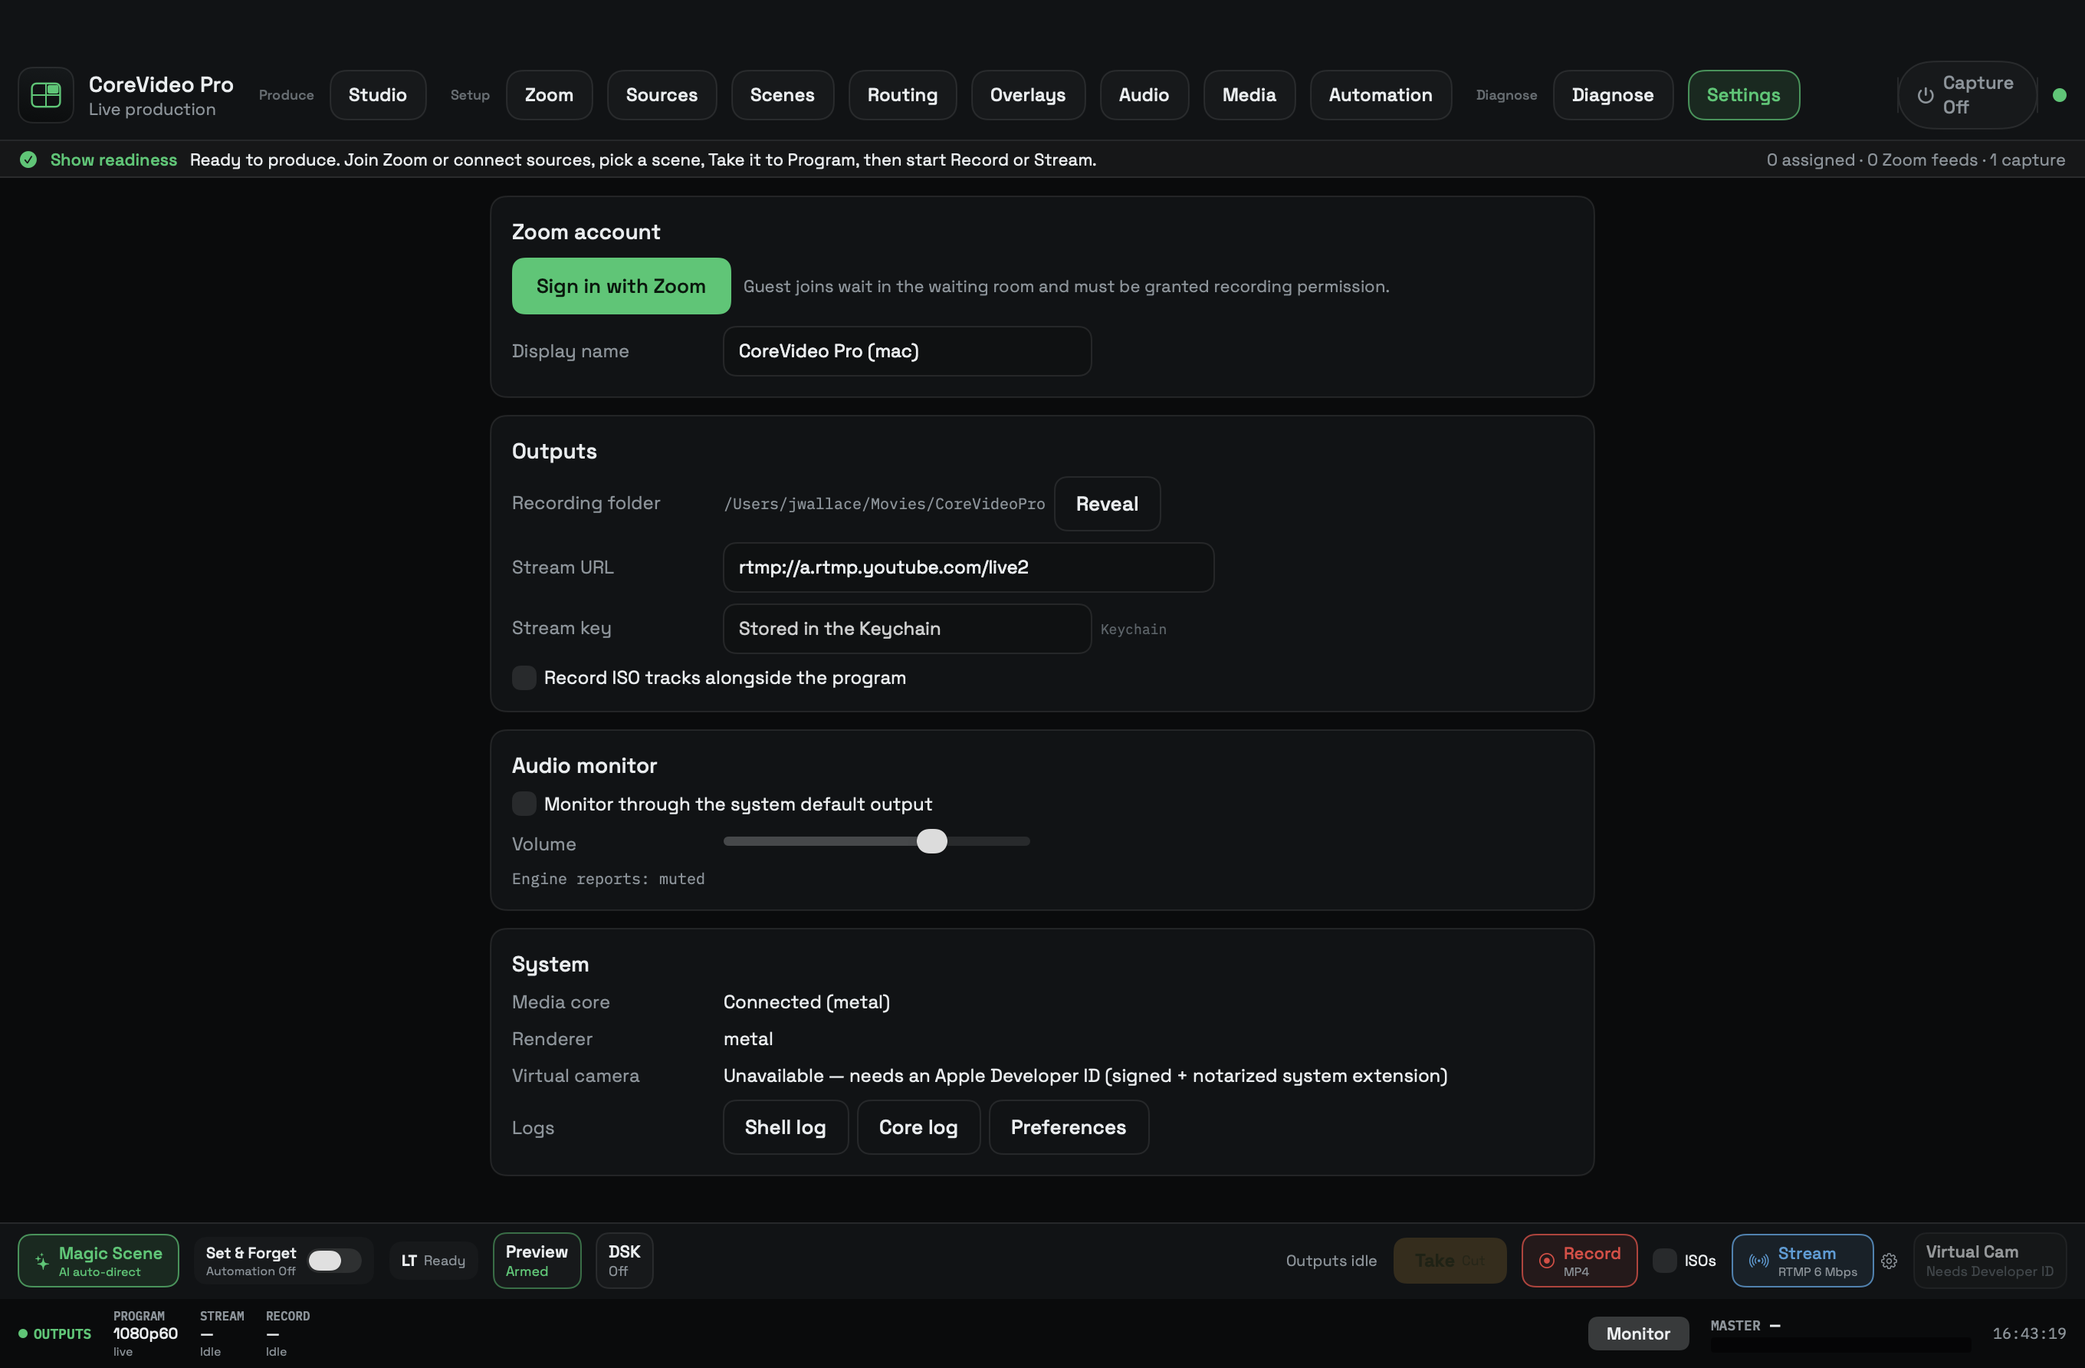
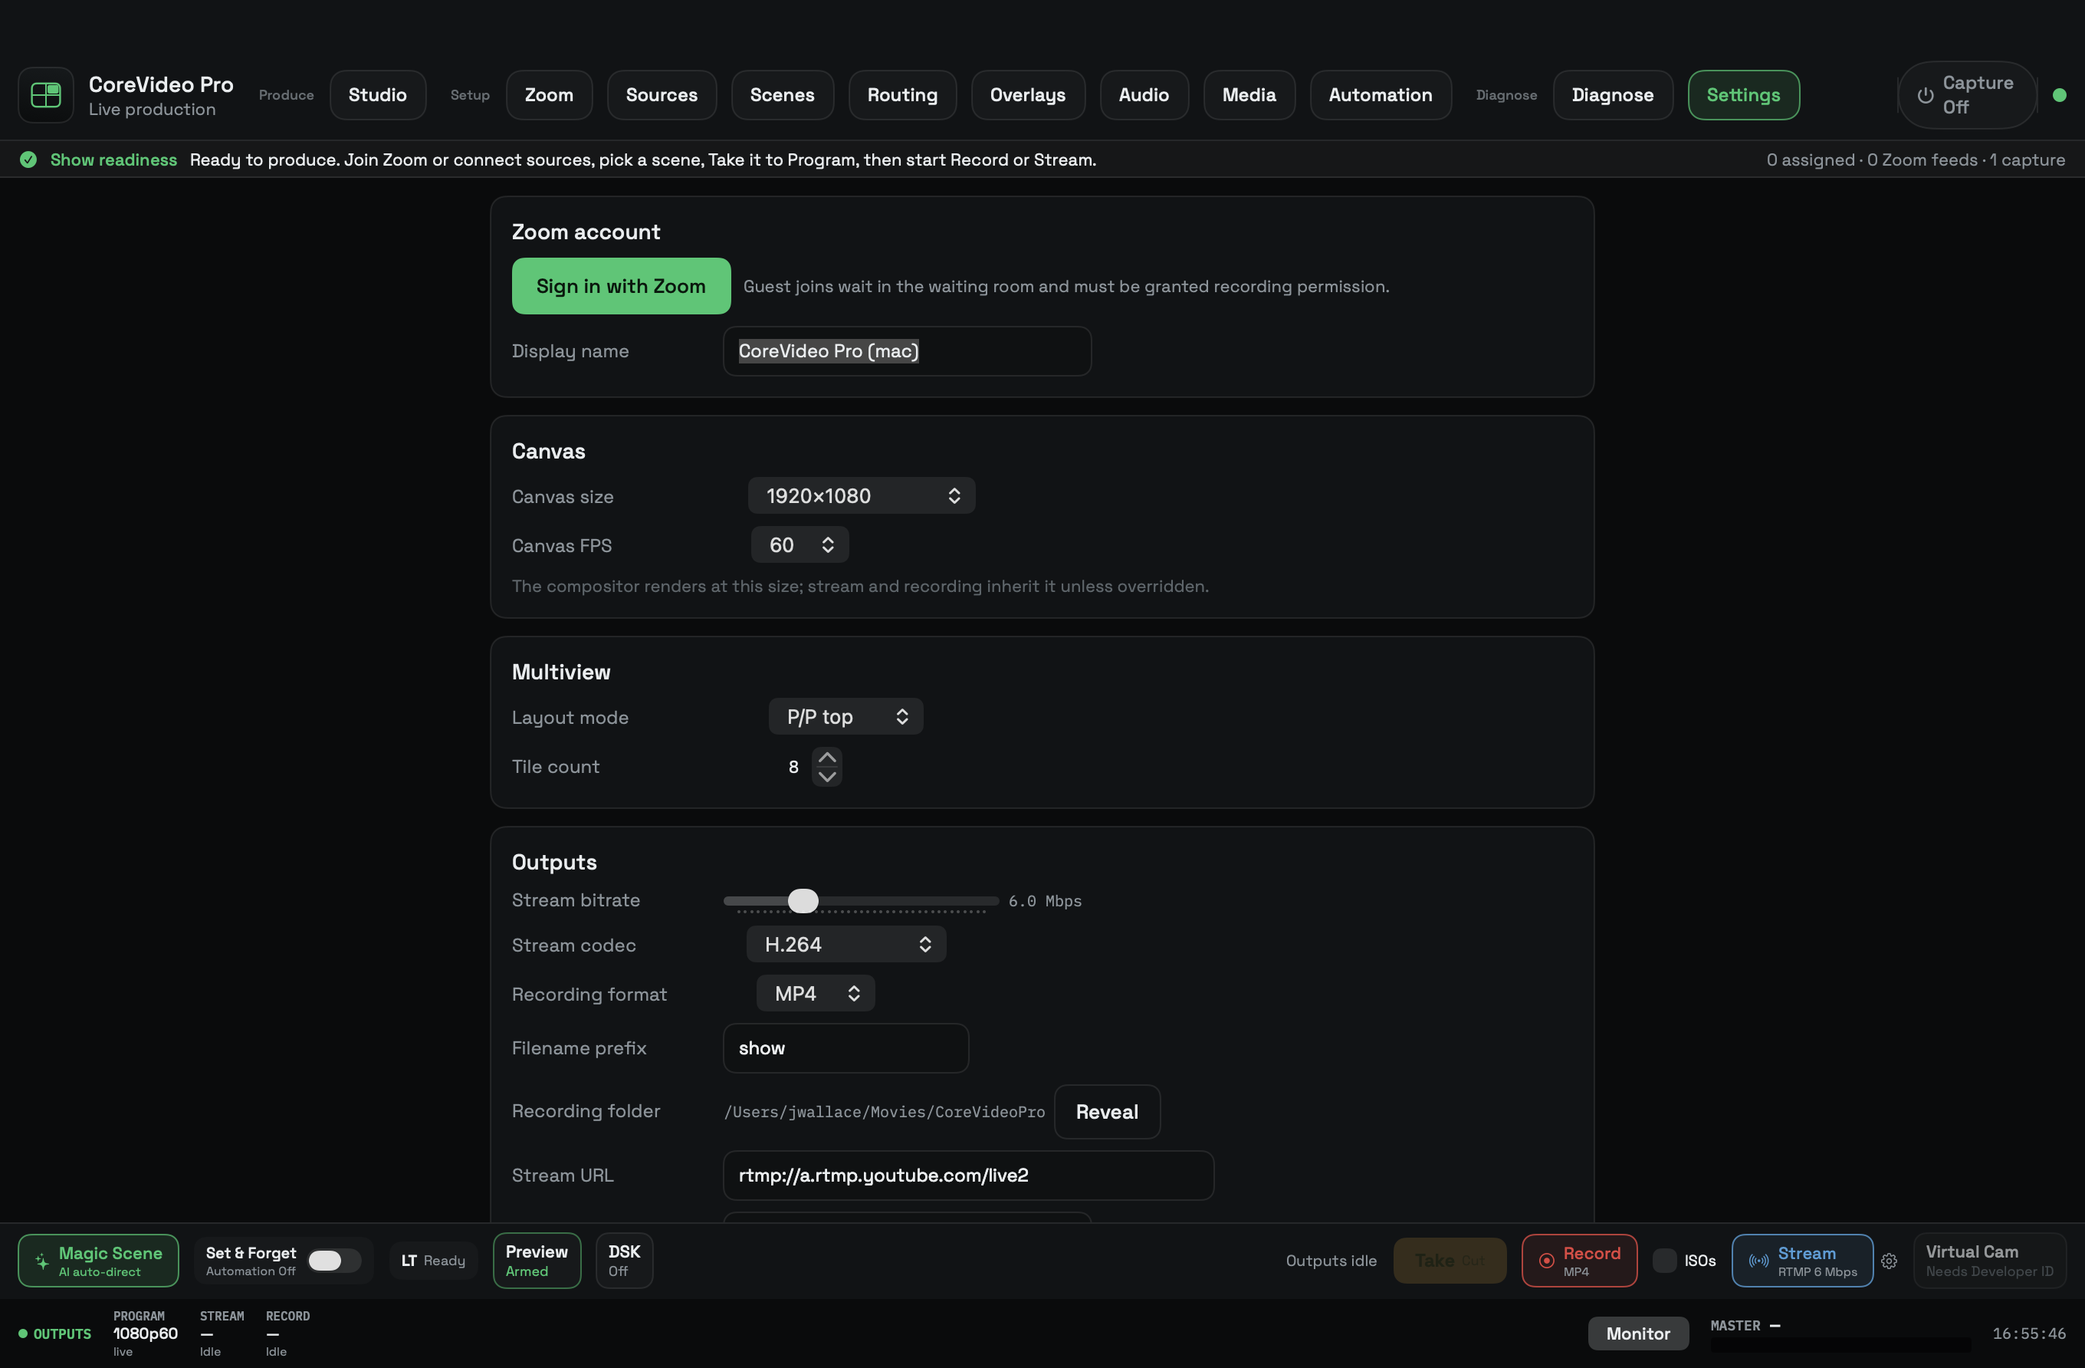
fix(mac): PGM/PVW visible in the multiviewer; Settings gains canvas/output
WHY PROGRAM AND PREVIEW WERE INVISIBLE — two causes, both fixed:
1. The core skipped the ENTIRE multiview pass when no sources were
   assigned (gate: !multiviewSources_.empty()), so an operator with an
   empty roster got a black rectangle and no buses at all. Every hardware
   multiviewer shows PGM/PVW from power-on; the pass now also runs when
   the layout has program/preview cells. 511/511.
2. Tile CHROME is the shell's job (the WinUI ShowMultiviewHost pattern):
   the core composites pixels into one texture and publishes tiles[] with
   role/label/tally/rect for the client to draw. The mac shell showed the
   raw texture only, so even a composited cell had no PREVIEW/PROGRAM
   label or tally border. MultiviewTileChrome now draws them — green PVW,
   red PGM, neutral sources with an active-speaker highlight.
Proof: docs/design-reference/mac/p0-multiview-pgm-pvw.png.

Settings now mirrors the Windows ProductionSettingsWindow groups instead
of being a thin panel: CANVAS (canvas size 720p-4K + FPS, wired to
set-output-profile so the compositor actually re-renders), MULTIVIEW
(layout mode + tile count via configure-multiviewer), OUTPUTS (stream
bitrate/codec, recording format/prefix — the recording commands now use
these instead of hardcoded values — folder, URL, Keychain key, ISO),
Audio monitor, and System.

diff --git a/mac-shell/Sources/CoreVideoProShell/AppModel.swift b/mac-shell/Sources/CoreVideoProShell/AppModel.swift
@@ -200,6 +200,22 @@ struct MasteringParams: Equatable {
     }
 }
 
+// One multiview tile's chrome, from multiviewSharedTexture.tiles. The core
+// composites PIXELS into the texture; labels and tally borders are the
+// SHELL's overlay (the WinUI ShowMultiviewHost pattern) — without them a PGM
+// or PVW cell with no source is an invisible black rectangle.
+struct MultiviewTile: Identifiable, Equatable {
+    let id: String
+    var label: String
+    var role: String      // pgm | pvw | source
+    var tally: String     // program | preview | none
+    var activeSpeaker: Bool
+    var x: Double
+    var y: Double
+    var w: Double
+    var h: Double
+}
+
 struct RosterParticipant: Identifiable, Equatable {
     let id: String
     let name: String
@@ -237,6 +253,7 @@ final class AppModel: ObservableObject {
     @Published var programFrameNumber: Int64 = 0
     @Published var previewSurfaceId: UInt32 = 0
     @Published var multiviewSurfaceId: UInt32 = 0
+    @Published var multiviewTiles: [MultiviewTile] = []
     @Published var captureDevices: [CaptureDeviceRow] = []
     @Published var clockText = ""
     @Published var selectedTab: StudioTab = .studio
@@ -577,10 +594,12 @@ final class AppModel: ObservableObject {
         if let program = snapshot["programSharedTexture"] as? JSONObject {
             applySharedTexture(program)
         }
-        if let multiview = snapshot["multiviewSharedTexture"] as? JSONObject,
-           let texture = multiview["texture"] as? JSONObject,
-           let id = texture["iosurfaceId"] as? NSNumber {
-            multiviewSurfaceId = id.uint32Value
+        if let multiview = snapshot["multiviewSharedTexture"] as? JSONObject {
+            if let texture = multiview["texture"] as? JSONObject,
+               let id = texture["iosurfaceId"] as? NSNumber {
+                multiviewSurfaceId = id.uint32Value
+            }
+            applyMultiviewTiles(multiview["tiles"] as? [JSONObject])
         }
         if let session = snapshot["outputSenderSession"] as? JSONObject {
             let senders = session["senders"] as? [JSONObject] ?? []
@@ -764,12 +783,72 @@ final class AppModel: ObservableObject {
                let id = texture["iosurfaceId"] as? NSNumber {
                 multiviewSurfaceId = id.uint32Value
             }
+            applyMultiviewTiles(event["tiles"] as? [JSONObject])
         case "preview-shared-texture":
             if let id = event["iosurfaceId"] as? NSNumber {
                 previewSurfaceId = id.uint32Value
             }
         default:
             break
+        }
+    }
+
+    private func applyMultiviewTiles(_ tiles: [JSONObject]?) {
+        guard let tiles else { return }
+        multiviewTiles = tiles.enumerated().map { index, entry in
+            let role = entry["role"] as? String ?? "source"
+            let sourceId = entry["sourceId"] as? String ?? ""
+            return MultiviewTile(
+                id: sourceId.isEmpty ? "\(role)-\(index)" : sourceId,
+                label: entry["label"] as? String ?? "",
+                role: role,
+                tally: entry["tally"] as? String ?? "none",
+                activeSpeaker: entry["activeSpeaker"] as? Bool ?? false,
+                x: (entry["x"] as? NSNumber)?.doubleValue ?? 0,
+                y: (entry["y"] as? NSNumber)?.doubleValue ?? 0,
+                w: (entry["w"] as? NSNumber)?.doubleValue ?? 0,
+                h: (entry["h"] as? NSNumber)?.doubleValue ?? 0)
+        }
+    }
+
+    // ── canvas / output profile ──────────────────────────────────────────────
+
+    @Published var canvasWidth = 1920
+    @Published var canvasHeight = 1080
+    @Published var canvasFps = 60
+    @Published var streamBitrateMbps = 6.0
+    @Published var streamCodec = "h264"
+    @Published var recordFormat = "mp4"
+    @Published var recordPrefix = "show"
+    @Published var multiviewTileCount = 8
+
+    func applyOutputProfile() {
+        guard let bridge else { return }
+        Task {
+            _ = try? await bridge.request([
+                "type": "media-core-sync", "elapsedMs": elapsedMs(),
+                "commands": [[
+                    "type": "set-output-profile",
+                    "width": canvasWidth, "height": canvasHeight, "fps": canvasFps,
+                    "targetBitrateMbps": streamBitrateMbps, "codec": streamCodec,
+                    "resolution": "\(canvasWidth)x\(canvasHeight)",
+                ]],
+            ])
+        }
+        syncScenes()
+    }
+
+    func applyMultiviewConfig() {
+        guard let bridge else { return }
+        Task {
+            _ = try? await bridge.request([
+                "type": "media-core-sync", "elapsedMs": elapsedMs(),
+                "commands": [[
+                    "type": "configure-multiviewer",
+                    "layoutMode": multiviewLayoutMode,
+                    "tileCount": multiviewTileCount,
+                ]],
+            ])
         }
     }
 
@@ -1806,7 +1885,8 @@ final class AppModel: ObservableObject {
                             startProgramOutput(recording: true, streaming: streamingDesired),
                             [
                                 "type": "set-recording-targets", "targetFolder": folder,
-                                "filenamePrefix": "show", "format": "mp4", "quality": "high",
+                                "filenamePrefix": recordPrefix.isEmpty ? "show" : recordPrefix,
+                                "format": recordFormat, "quality": "high",
                                 "isoSourceIds": isoIds, "isoParticipantIds": isoLegacy,
                             ],
                             ["type": "start-recording-session", "sessionId": UUID().uuidString,

diff --git a/mac-shell/Sources/CoreVideoProShell/SettingsPane.swift b/mac-shell/Sources/CoreVideoProShell/SettingsPane.swift
@@ -45,7 +45,97 @@ struct SettingsPane: View {
                 }
             }
 
+            // CANVAS — the render size everything downstream inherits
+            // (ProductionSettingsWindow "Canvas" group: Canvas size, Canvas FPS).
+            card("Canvas") {
+                labeled("Canvas size") {
+                    Picker("", selection: Binding(
+                        get: { "\(model.canvasWidth)x\(model.canvasHeight)" },
+                        set: { value in
+                            let parts = value.split(separator: "x").compactMap { Int($0) }
+                            if parts.count == 2 {
+                                model.canvasWidth = parts[0]
+                                model.canvasHeight = parts[1]
+                                model.applyOutputProfile()
+                            }
+                        })) {
+                        Text("3840×2160 (4K)").tag("3840x2160")
+                        Text("2560×1440").tag("2560x1440")
+                        Text("1920×1080").tag("1920x1080")
+                        Text("1280×720").tag("1280x720")
+                    }
+                    .labelsHidden().frame(width: 180)
+                }
+                labeled("Canvas FPS") {
+                    Picker("", selection: Binding(
+                        get: { model.canvasFps },
+                        set: { model.canvasFps = $0; model.applyOutputProfile() })) {
+                        Text("60").tag(60)
+                        Text("30").tag(30)
+                        Text("24").tag(24)
+                    }
+                    .labelsHidden().frame(width: 100)
+                }
+                Text("The compositor renders at this size; stream and recording "
+                     + "inherit it unless overridden.")
+                    .font(.grotesk(11)).foregroundStyle(Studio.textDim)
+            }
+
+            // MULTIVIEW — layout mode + tile count (the reference's Layout group).
+            card("Multiview") {
+                labeled("Layout mode") {
+                    Picker("", selection: Binding(
+                        get: { model.multiviewLayoutMode },
+                        set: { model.configureMultiviewer(mode: $0) })) {
+                        Text("P/P top").tag("pgmPvwTop")
+                        Text("P/P large").tag("pgmPvwLarge")
+                        Text("P/P side").tag("pgmPvwSide")
+                        Text("Grid").tag("grid")
+                    }
+                    .labelsHidden().frame(width: 160)
+                }
+                labeled("Tile count") {
+                    Stepper(value: Binding(
+                        get: { model.multiviewTileCount },
+                        set: { model.multiviewTileCount = $0; model.applyMultiviewConfig() }),
+                        in: 1...16) {
+                        Text("\(model.multiviewTileCount)").font(.plexMono(11))
+                    }
+                    .frame(width: 120)
+                }
+            }
+
             card("Outputs") {
+                labeled("Stream bitrate") {
+                    HStack(spacing: 6) {
+                        Slider(value: Binding(
+                            get: { model.streamBitrateMbps },
+                            set: { model.streamBitrateMbps = $0 }),
+                            in: 1...20, step: 0.5)
+                            .frame(width: 180)
+                        Text(String(format: "%.1f Mbps", model.streamBitrateMbps))
+                            .font(.plexMono(10)).foregroundStyle(Studio.secondary)
+                    }
+                }
+                labeled("Stream codec") {
+                    Picker("", selection: $model.streamCodec) {
+                        Text("H.264").tag("h264")
+                        Text("H.265 / HEVC").tag("h265")
+                    }
+                    .labelsHidden().frame(width: 160)
+                }
+                labeled("Recording format") {
+                    Picker("", selection: $model.recordFormat) {
+                        Text("MP4").tag("mp4")
+                        Text("MOV").tag("mov")
+                    }
+                    .labelsHidden().frame(width: 120)
+                }
+                labeled("Filename prefix") {
+                    TextField("show", text: $model.recordPrefix)
+                        .textFieldStyle(StudioFieldStyle())
+                        .frame(width: 160)
+                }
                 labeled("Recording folder") {
                     HStack(spacing: 6) {
                         Text(recordingFolder).font(.plexMono(10))

diff --git a/mac-shell/Sources/CoreVideoProShell/ShellApp.swift b/mac-shell/Sources/CoreVideoProShell/ShellApp.swift
@@ -427,7 +427,24 @@ struct MultiviewerCanvas: View {
             }
             ZStack {
                 Rectangle().fill(Color.black)
-                if model.multiviewSurfaceId == 0 {
+                if model.multiviewSurfaceId != 0 {
+                    SurfaceView(surfaceId: model.multiviewSurfaceId)
+                }
+                // Tile chrome is the SHELL's job (the WinUI multiview-host
+                // pattern): the core composites pixels, we draw the labels and
+                // tally borders from tiles[]. Without this a PGM/PVW cell with
+                // no source is an invisible black rectangle — which is exactly
+                // how "program and preview are missing" presented.
+                GeometryReader { geometry in
+                    ForEach(model.multiviewTiles) { tile in
+                        MultiviewTileChrome(tile: tile)
+                            .frame(width: max(1, tile.w * geometry.size.width),
+                                   height: max(1, tile.h * geometry.size.height))
+                            .offset(x: tile.x * geometry.size.width,
+                                    y: tile.y * geometry.size.height)
+                    }
+                }
+                if model.multiviewTiles.isEmpty {
                     VStack(spacing: 6) {
                         Text("Multiviewer")
                             .font(.grotesk(14, .semibold))
@@ -436,14 +453,62 @@ struct MultiviewerCanvas: View {
                              + "pick a scene — preview and program composite here.")
                             .font(.grotesk(12)).foregroundStyle(Studio.textDim)
                     }
-                } else {
-                    SurfaceView(surfaceId: model.multiviewSurfaceId)
                 }
             }
             .frame(maxWidth: .infinity, maxHeight: .infinity)
             .overlay(Rectangle().stroke(Studio.border, lineWidth: 1))
         }
         .modifier(StudioPanel())
+    }
+}
+
+// PGM = amber/red tally, PVW = green, sources = neutral (active speaker
+// lights green). Label bar sits at the bottom of the cell like the reference.
+struct MultiviewTileChrome: View {
+    let tile: MultiviewTile
+
+    var accent: Color {
+        switch tile.role {
+        case "pgm": return Studio.red
+        case "pvw": return Studio.accent
+        default:
+            if tile.tally == "program" { return Studio.red }
+            if tile.tally == "preview" { return Studio.accent }
+            return tile.activeSpeaker ? Studio.accent : Studio.border
+        }
+    }
+
+    var title: String {
+        switch tile.role {
+        case "pgm": return "PROGRAM"
+        case "pvw": return "PREVIEW"
+        default: return tile.label.isEmpty ? "Source" : tile.label
+        }
+    }
+
+    var isBus: Bool { tile.role == "pgm" || tile.role == "pvw" }
+
+    var body: some View {
+        ZStack(alignment: .bottomLeading) {
+            Rectangle().fill(Color.clear)
+            HStack(spacing: 4) {
+                Text(title)
+                    .font(.grotesk(11, isBus ? .semibold : .regular))
+                    .foregroundStyle(isBus ? Studio.onAccent : Studio.textPrimary)
+                    .lineLimit(1)
+                if !isBus, !tile.label.isEmpty, tile.activeSpeaker {
+                    Text("LIVE").font(.plexMono(8, .semibold))
+                        .foregroundStyle(Studio.onAccent)
+                }
+                Spacer()
+            }
+            .padding(.horizontal, 6).padding(.vertical, 3)
+            .frame(maxWidth: .infinity, alignment: .leading)
+            .background(Rectangle().fill(
+                isBus ? accent : Color.black.opacity(0.55)))
+        }
+        .overlay(Rectangle().stroke(accent, lineWidth: isBus ? 3 : 2))
+        .allowsHitTesting(false)
     }
 }
 

diff --git a/native/src/core/MediaCore.cpp b/native/src/core/MediaCore.cpp
@@ -4489,7 +4489,12 @@ void MediaCore::renderSyntheticTick(bool videoOnly) {
   // texture (mirrors the program shared texture). Opt-in â€” only when a layout is
   // set. Reuses the same videoFrames, so Zoom + capture tiles work for free, and
   // stays on the light videoOnly tick (no CPU readback).
-  if (!multiviewSources_.empty()) {
+  // Render whenever there are sources OR the layout has PGM/PVW cells: an
+  // operator with nothing assigned yet must still see the program and preview
+  // buses (every hardware multiviewer shows them from power-on). Gating the
+  // whole pass on sources left the mac shell with a black box and no P/P.
+  const bool multiviewHasProgramPreview = multiviewLayoutMode_ != "grid";
+  if (!multiviewSources_.empty() || multiviewHasProgramPreview) {
     auto multiviewPlan = buildMultiviewRenderPlan(videoFrames);
     multiviewPlan.skipCpuReadback = true;
     lastProgramFrame_.multiviewSharedTexture = modules_.compositor->renderMultiview(multiviewPlan, videoFrames);
